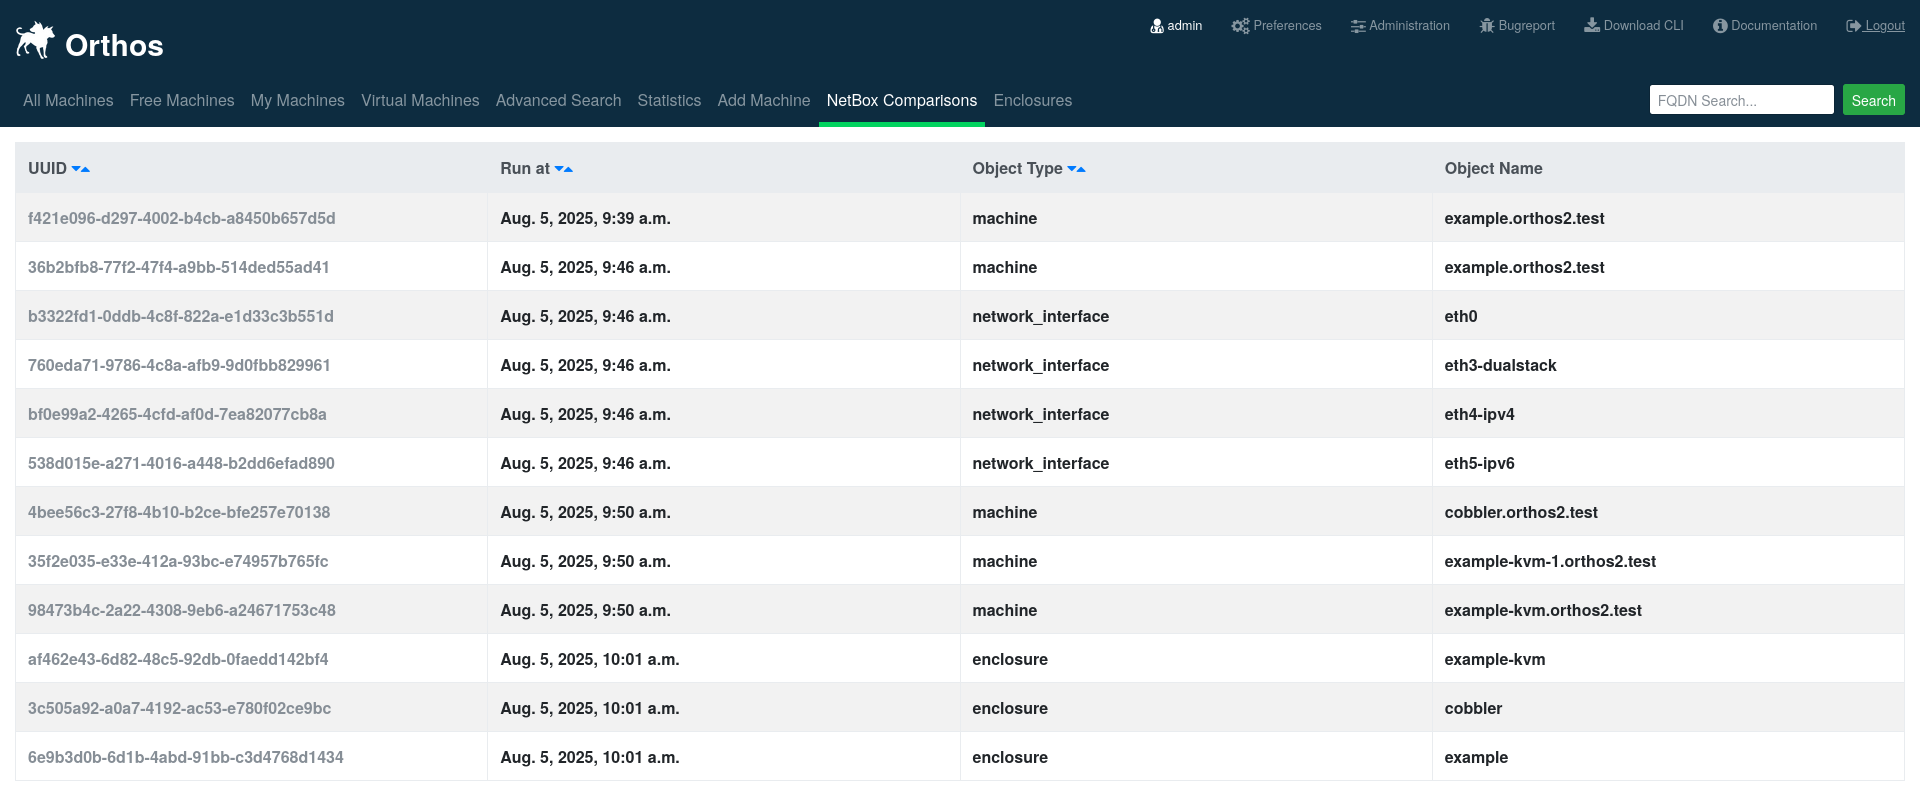
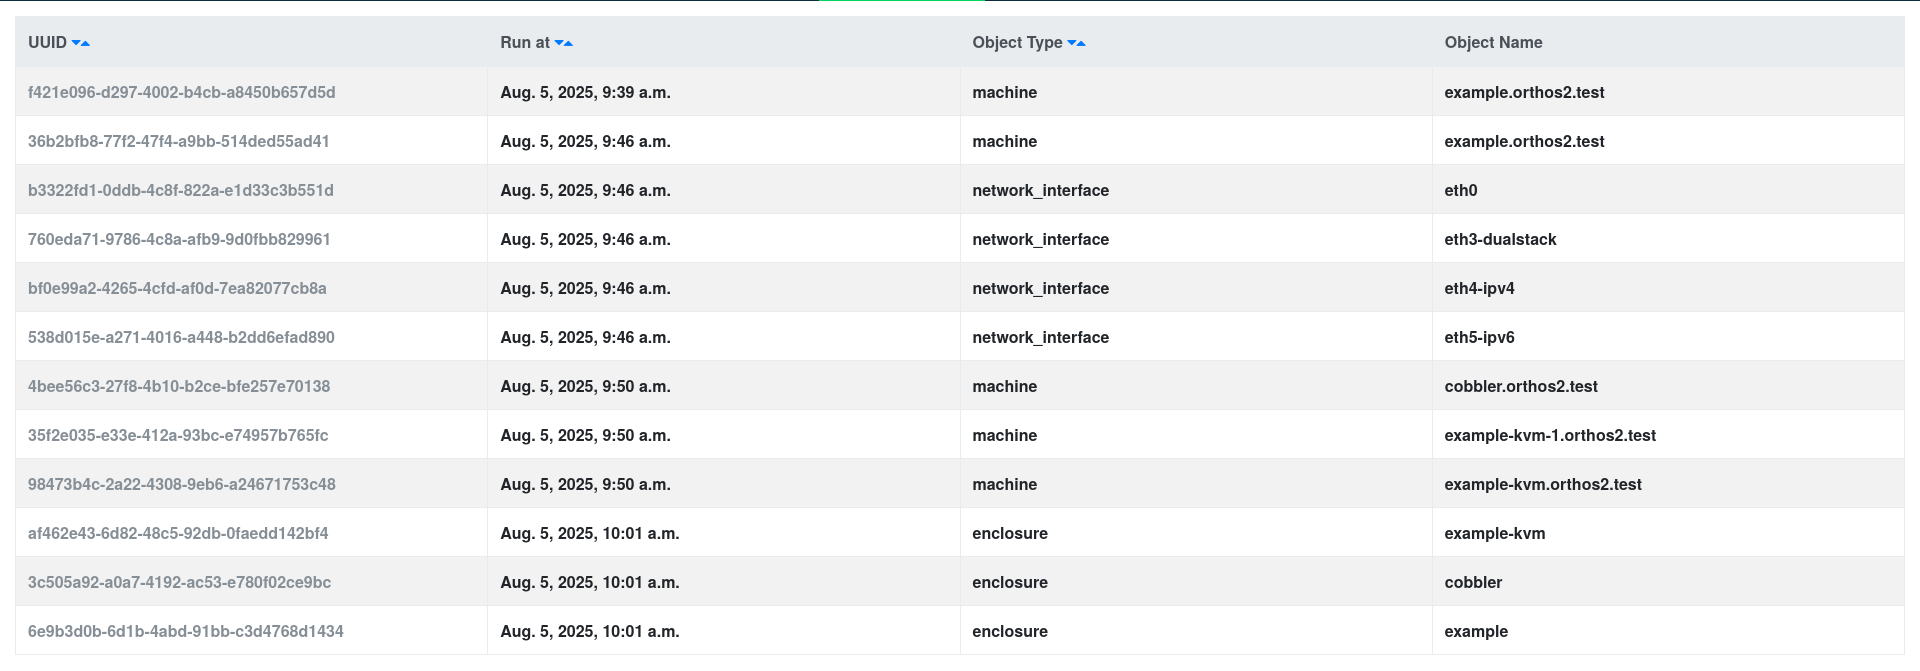
docs: refresh NetBox comparison screenshots and document quick filter
Update the list and detail view screenshots to match the current UI,
and document the new quick filter (object type, date range, object
name search) added to the comparison list page.

diff --git a/docs/userguide/netbox_comparison_page.rst b/docs/userguide/netbox_comparison_page.rst
@@ -18,6 +18,16 @@ List View
 
 This page provides a list of comparison runs between Orthos 2 and NetBox.
 
+Quick Filter
+############
+
+.. image:: ../img/userguide/22_netboxcomparison_quick_filter.png
+  :alt: Orthos2 NetBox Comparison Quick Filter
+
+- All Object Types: Filter comparisons by object type (machine, network_interface, enclosure, etc.).
+- From / To: Filter comparisons by the date range they were run in.
+- Object Name Search: Search comparisons by (partial) object name.
+
 Detail View
 ###########
 
